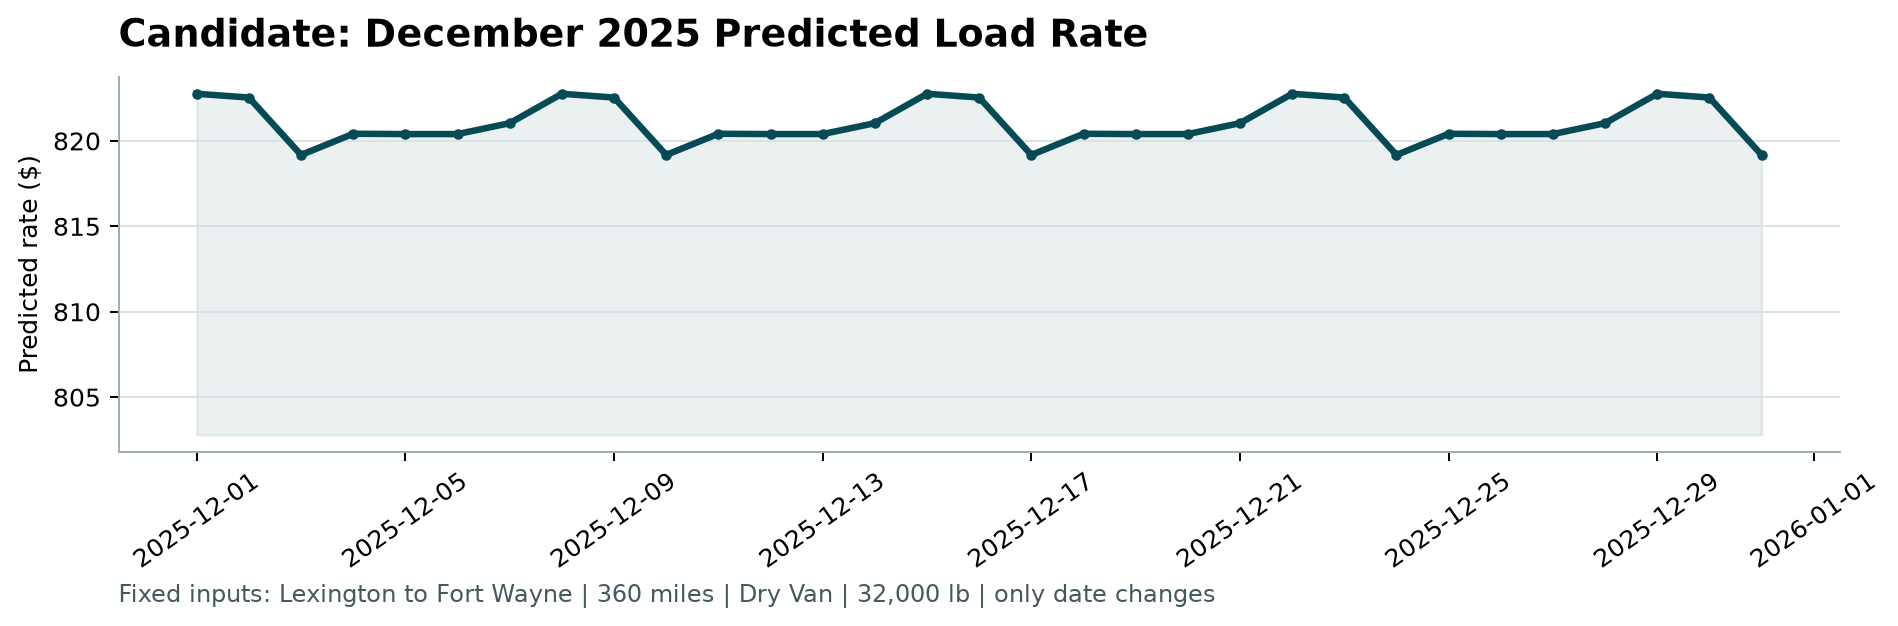
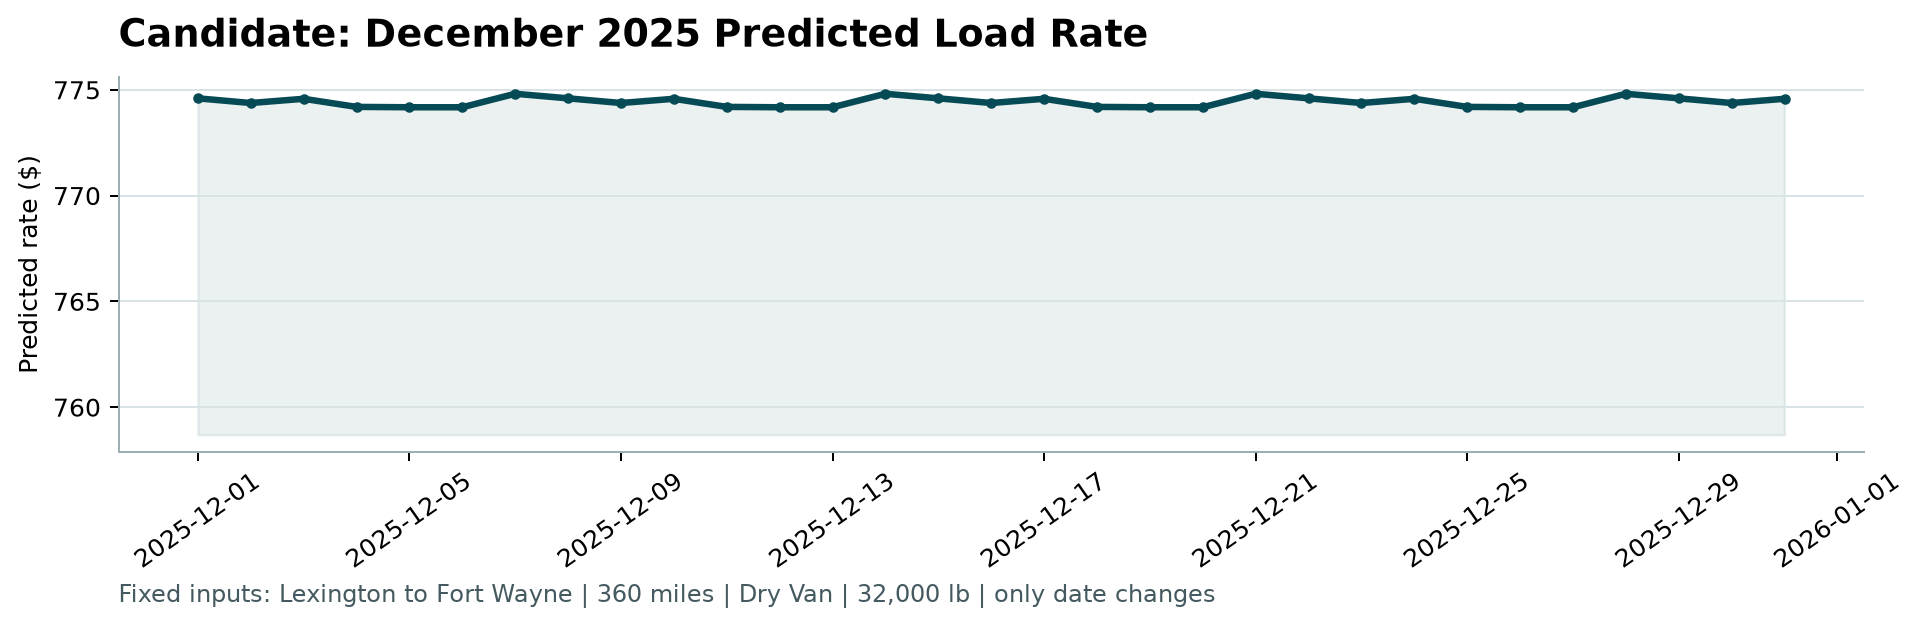
Add files via upload

diff --git a/predict.py b/predict.py
@@ -76,8 +76,67 @@ if __name__ == "__main__":
     dfValToSave = pd.read_csv("TemplatesCSV/validation.csv")
     dfValPredToSave = pd.read_csv("TemplatesCSV/validation-predictions-template.csv")
     dfDecemberChart = pd.read_csv("TemplatesCSV/december-chart-inputs.csv")
+    dictMissingInDec = { 
+        "pickup_lat": [
+            float(
+                dfValToSave[
+                    (dfValToSave["pickup"] == "Lexington")&
+                    (dfValToSave["delivery"] == "Fort Wayne")&
+                    (dfValToSave["equipment"] == "Dry Van")
+                ].iloc[0]["pickup_lon"]
+            )
+        ] * len(dfDecemberChart)
+        ,
+        "pickup_lon": [
+            float(
+                dfValToSave[
+                    (dfValToSave["pickup"] == "Lexington")&
+                    (dfValToSave["delivery"] == "Fort Wayne")&
+                    (dfValToSave["equipment"] == "Dry Van")
+                ].iloc[0]["pickup_lon"]
+            )
+        ] * len(dfDecemberChart),
+        "delivery_lat": [
+            float(
+                dfValToSave[
+                    (dfValToSave["pickup"] == "Lexington")&
+                    (dfValToSave["delivery"] == "Fort Wayne")&
+                    (dfValToSave["equipment"] == "Dry Van")
+                ].iloc[0]["delivery_lat"]
+            )
+        ] * len(dfDecemberChart)
+        ,
+        "delivery_lon": [
+            float(
+                dfValToSave[
+                    (dfValToSave["pickup"] == "Lexington")&
+                    (dfValToSave["delivery"] == "Fort Wayne")&
+                    (dfValToSave["equipment"] == "Dry Van")
+                ].iloc[0]["delivery_lon"]
+            )
+        ] * len(dfDecemberChart),
+        "market_index": [
+            float(
+                dfValToSave[
+                    (dfValToSave["pickup"] == "Lexington")&
+                    (dfValToSave["delivery"] == "Fort Wayne")&
+                    (dfValToSave["equipment"] == "Dry Van")
+                ]["market_index"].mean()
+            )
+        ] * len(dfDecemberChart),
+        "quote_signal": [
+            float(
+                dfValToSave[
+                    (dfValToSave["pickup"] == "Lexington")&
+                    (dfValToSave["delivery"] == "Fort Wayne")&
+                    (dfValToSave["equipment"] == "Dry Van")
+                ]["quote_signal"].mean()
+            )
+        ] * len(dfDecemberChart)
+    }
+    
     for decemberMissing in decemberChartMissing:
-        dfDecemberChart[decemberMissing] = np.nan
+        dfDecemberChart[decemberMissing] = dictMissingInDec[decemberMissing]
     # print(cleaner.ifCellIsEmptyGetColumn(columns[:13],df))
     # print(cleaner.checkHowManyCellsEmpty(columns[:13],df))
     # print(cleaner.checkHowManyCellsNegative(numericalFeatures[1:5],df))

diff --git a/Readme.md b/Readme.md
@@ -1,35 +1,3 @@
-# Run Instructions
-
-## 1) Install catboost and scikit learn
-
-The two packages should already be in `.venv`, but if for whatever reason they aren't install them.
-
-```bash
-pip install catboost scikit-learn
-```
-
-## 2) `dataCleaning.py`
-
-`dataCleaning.py` contains the class with the data cleaning and data checking methods I created to check and clean the provided data. There are data checking that I have opted not to do due to the fact that I think it goes beyond the scope of the assessment (meaning it'd take considerable time by my estimation), such as checking the correlation between the distance and the straight absolute distance taken from the coordinates.
-
-## 3) `training.py`
-
-`training.py` is straigtforward, I applied data cleaning before inputting the dataset into the catboost model. If you want to train different models of different depths, just included the depths to the depths list. Hit run and it should be good to go, saving the model in the directory of the `training.py`.
-
-## 4) `predict.py`
-
-`predict.py` is also straigthforward, I did a similar cleaning before prediction. You would notice the commented data checking. I did this to check if there was anything amiss with the dataset for prediction. Hit run and it should generate three files: `validation.csv`, `validation-predictions.csv`, and `december-chart-inputs.csv`.
-
-## 5) `TemplatesCSV`
-
-I made sure to place the "template" of the three files in a subfolder called `TemplatesCSV`. I did that so I can save my own files without changing the template files (and potentially messing up the whole thing) into the current directory.
-
----
-
-That's all I think. Also, I'd like to say I'm truly grateful for this opportunity, thank you for giving me this assessment.
-
-
-
 # Freight Rate Prediction Challenge
 
 See `Freight_Rate_ML_Assessment.pdf` for the assessment instructions.
